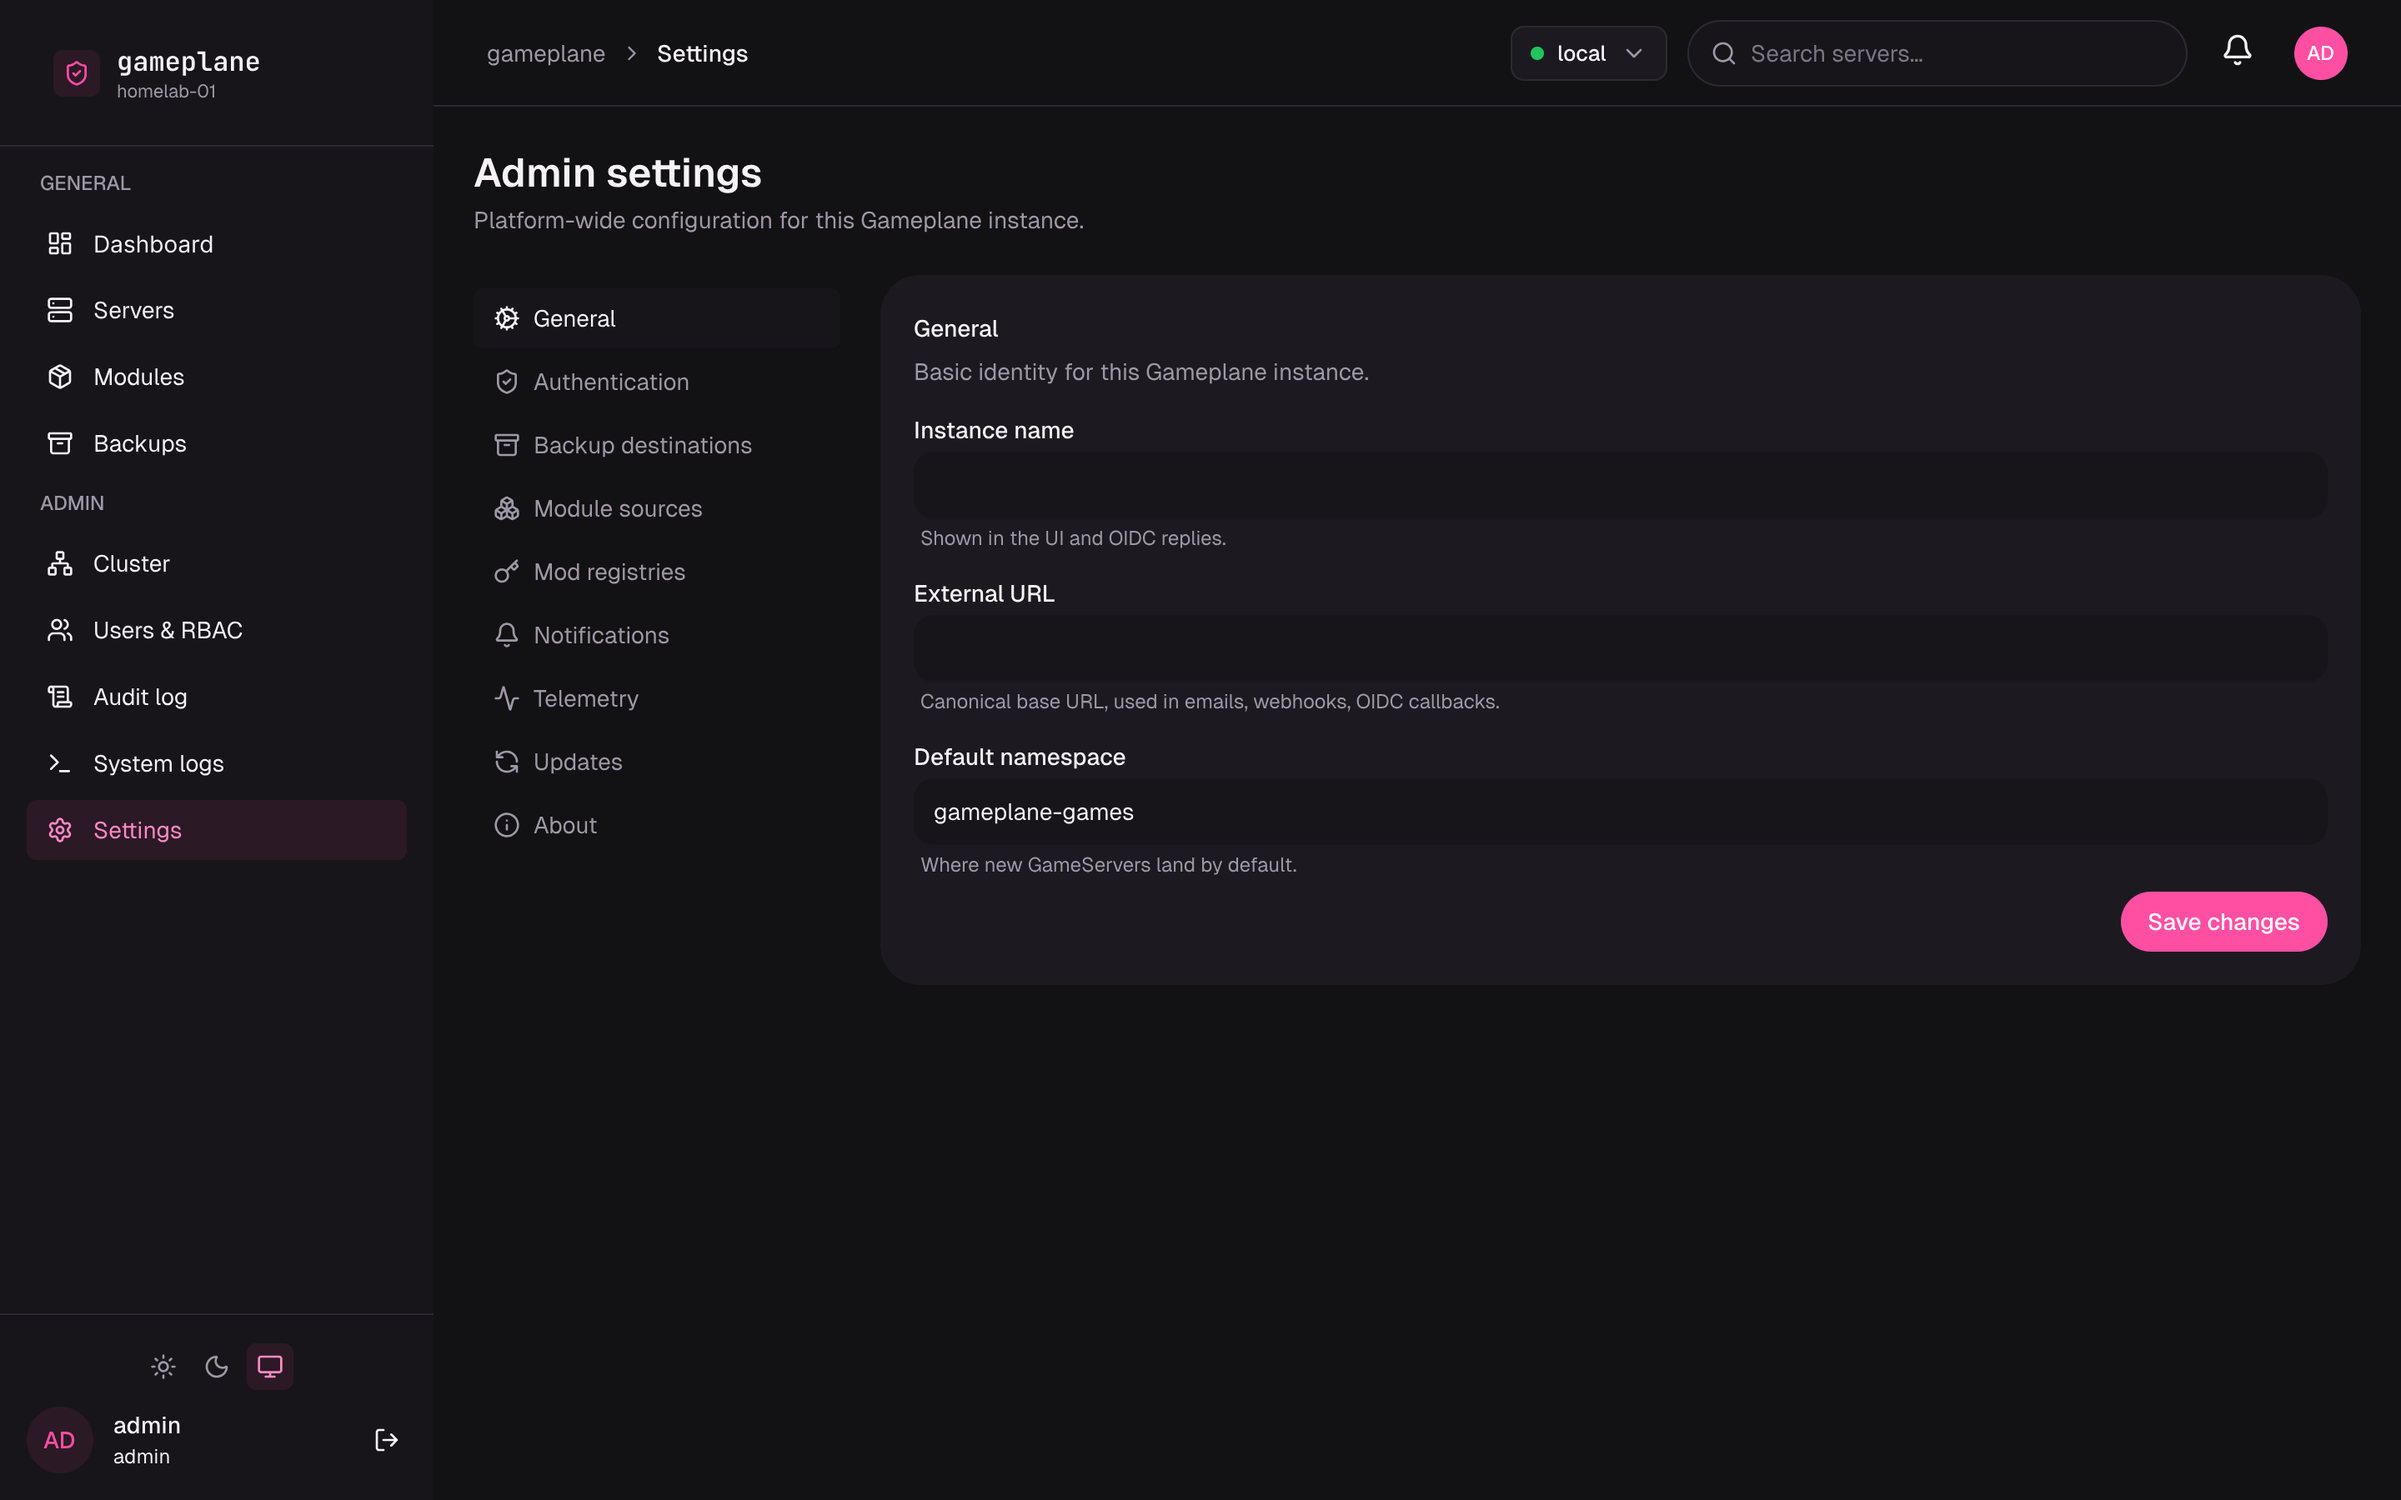
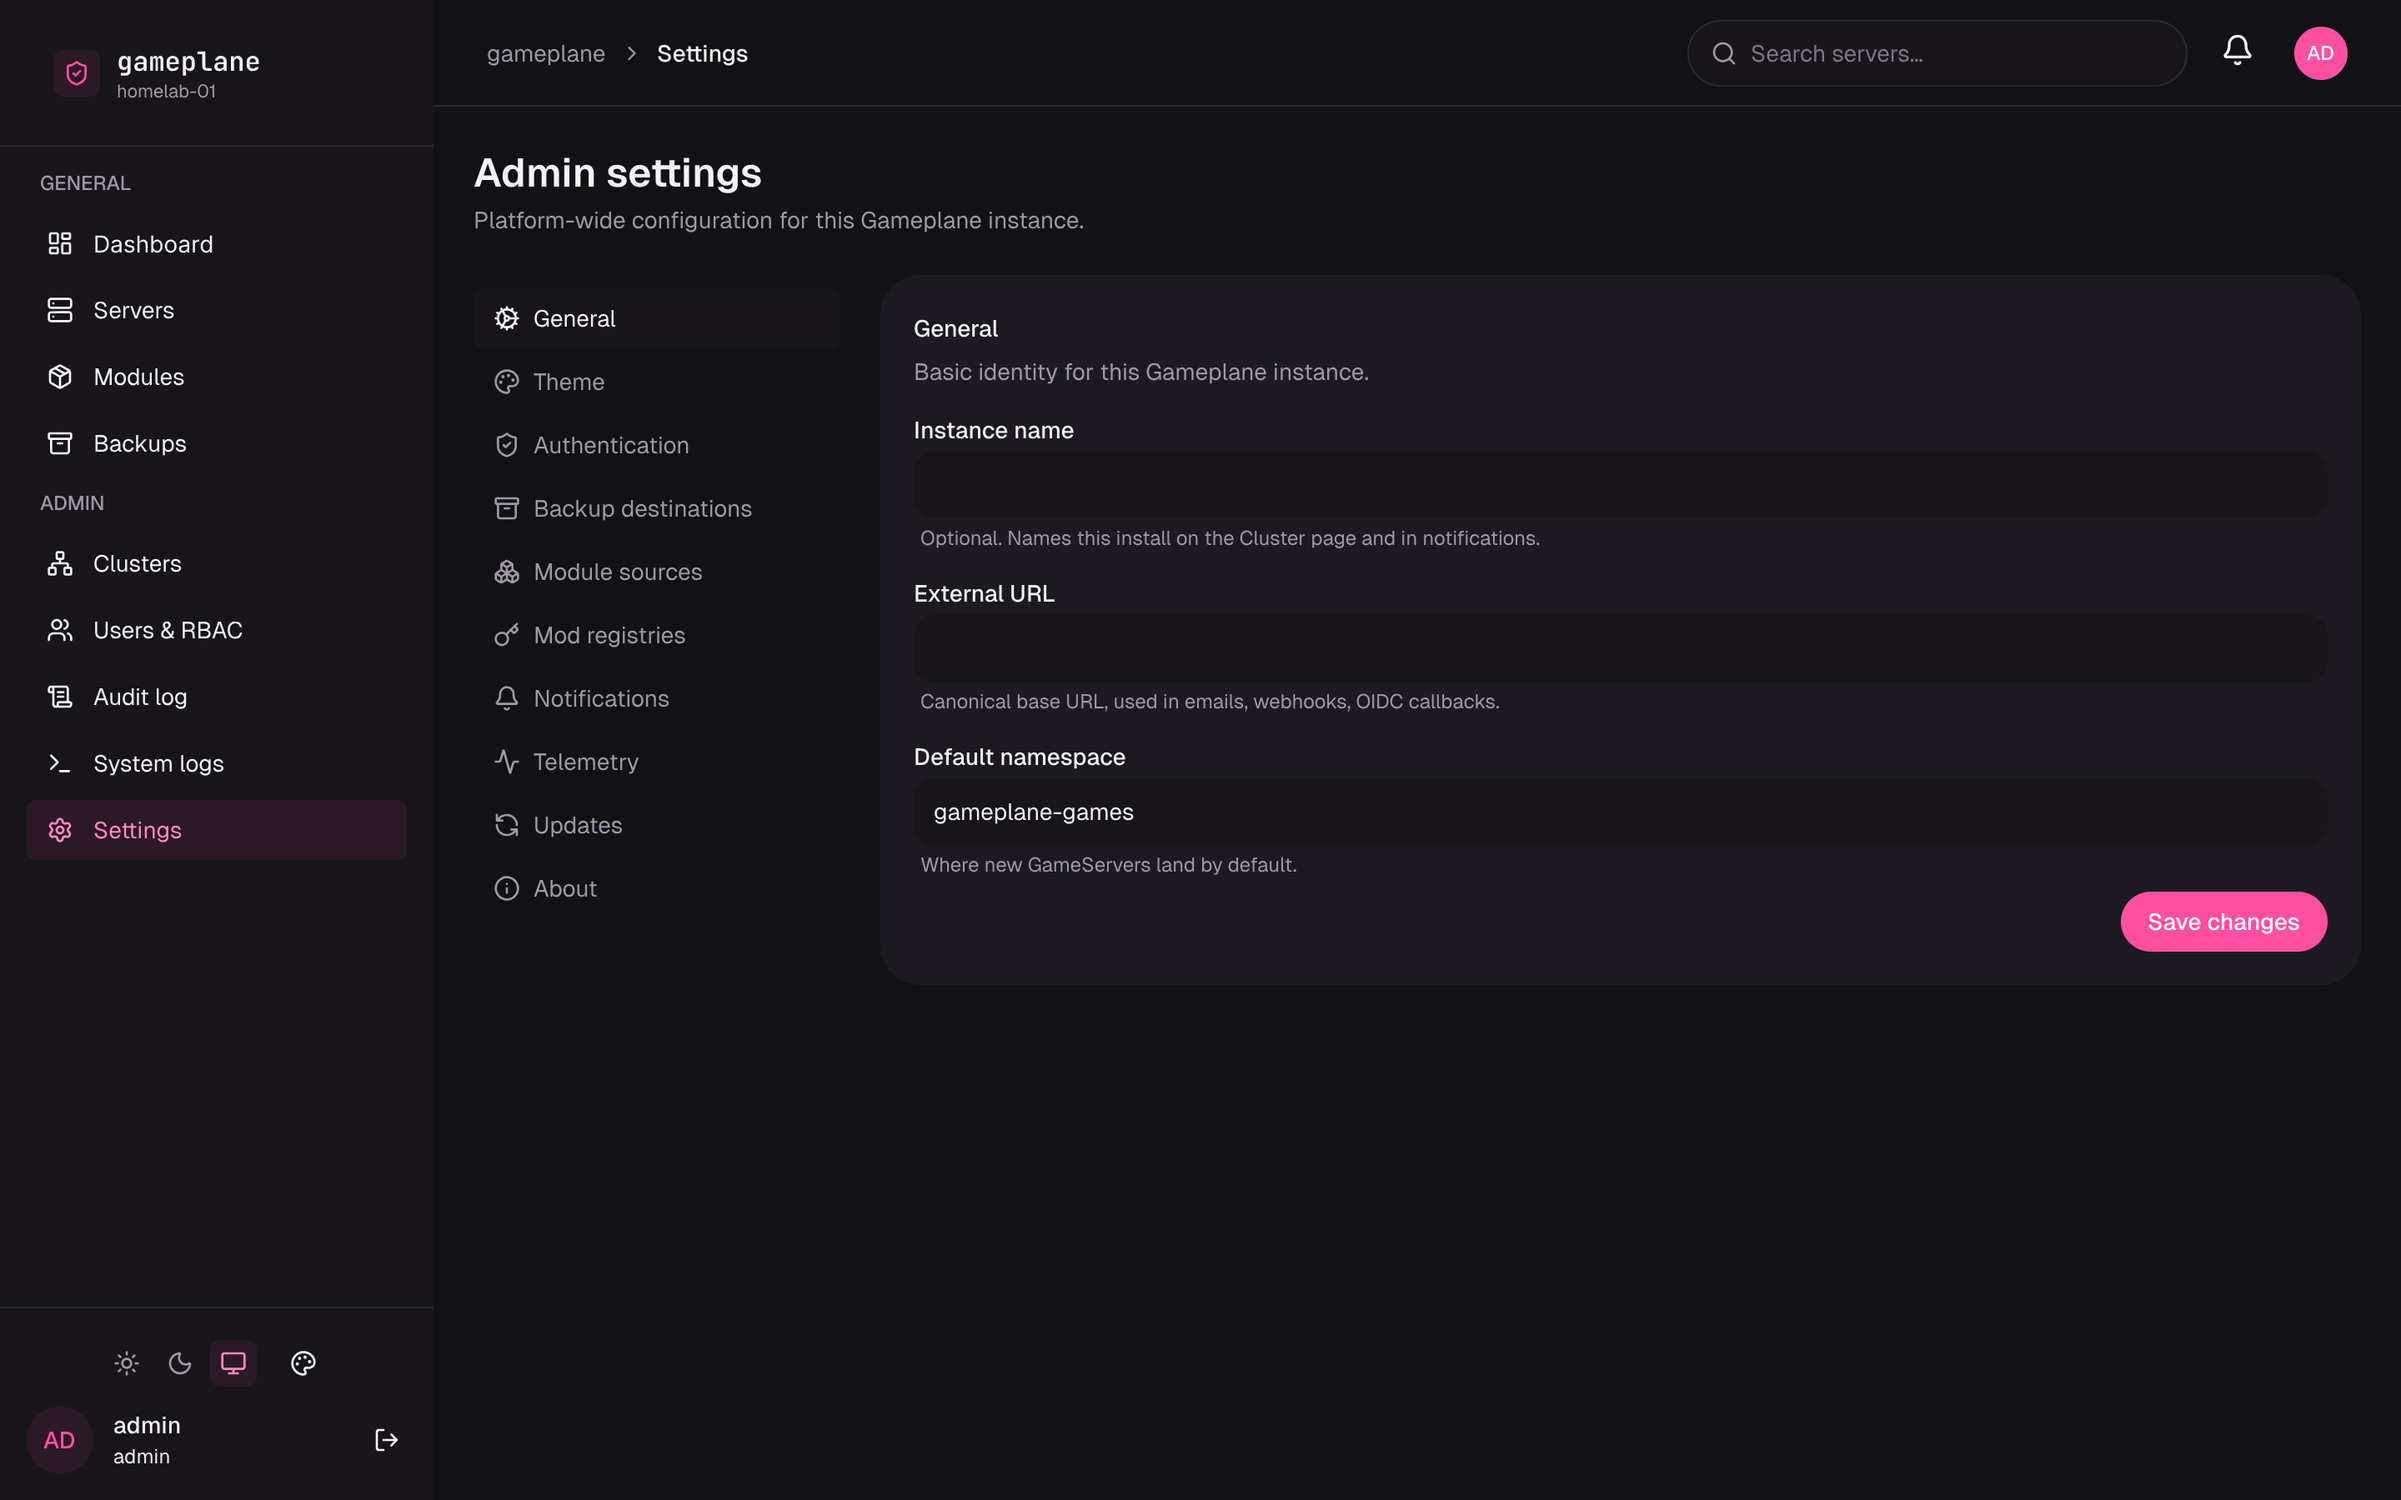
design: live-sweep UX pass for share copy, files, console and settings
Design-first changes for four findings from the 2026-10-04 kubelab live
sweep, ahead of the code:

- Share Link Starting (EcoGD): "starting up" instead of "waking up",
  which was wrong for a normal start.
- Admin Settings (WZdnw): the Instance name hint says the field is
  optional and where the name shows.
- Files (Burtr): folder rows get a hover trash button so folders can be
  deleted; new New File (Invalid name) variant (oMuyw) with an inline
  error line.
- Console (Xn5ns): adds the command bar the code already renders, with a
  placeholder that mentions Up/Down history.
- New File/Folder dialogs (JLaGB, I9W8z): the primary button reads
  Create instead of the inherited "Run snapshot".

Exports refreshed for the touched nodes; MANIFEST documents the pass.

Claude-Session: https://claude.ai/code/session_01NsN6bnAMRM9XQtrTQ6KC7U

diff --git a/design-export/MANIFEST.md b/design-export/MANIFEST.md
@@ -2465,3 +2465,20 @@ The kept copies moved into the freed slots so their rows stay contiguous, and on
 The second Settings set at x ≥ 30440 (`uCA23`, `VctzT`, `iLm38`, `QpEvu`, `XR0f9`) was not touched. Those screens are not duplicates; their content differs from the originals.
 
 After the cleanup there are 217 top-level frames and 0 overlaps.
+
+## Live-sweep UX pass (2026-10-05)
+
+These are the design-first changes for the four UX findings from the 2026-10-04 kubelab live sweep that needed a design before code. One new top-level frame was added, so the document now has 218 top-level frames. It does not overlap any other frame.
+
+| Object | Name | Change |
+| --- | --- | --- |
+| `EcoGD` | Screen/Share Link — Starting | The body copy says "The server is starting up…" instead of "…waking up…". The old copy was wrong for a normal start that no visitor triggered. |
+| `WZdnw` | Screen/Admin Settings | The Instance name hint (`E8BwC`) now reads "Optional. Names this install on the Cluster page and in notifications." The field is optional, and the API never used it in OIDC replies. |
+| `Burtr` | Screen/Server Detail — Files | Row `WdtR2` ("logs") is shown in its hover state. A small ghost `trash-2` button (`ccokq`, in `kHLhx`) replaces its Size cell, so folders can be deleted. Clicking a folder row still opens the folder. |
+| `oMuyw` | Gameplane/Dialog/New File (Invalid name) | **New**, an instance of `JLaGB` placed to its right. The input shows `../escape.txt` with a danger stroke, an 11px danger error line under it, and the dimmed Create button. |
+| `JLaGB`, `I9W8z` | Gameplane/Dialog/New File, New Folder | The primary button reads "Create". Before, it inherited "Run snapshot" from the base modal `x3beP`. |
+| `Xn5ns` | Screen/Server Detail — Console | Adds the command bar (`bdXV9`) that the code already renders, under the terminal. It has a full-width input with the placeholder "Type a command… (↑/↓ recalls history)" and a small primary Send button with no icon. |
+
+- **JSON:** made with `Print(JSON.stringify(Get(id, {depth: 30, includePathGeometry: true})))` and re-serialized with `jq .`. Zero `"..."` elisions, and `jq empty` passes.
+- **Screenshots:** made with `Export(ids, "png", …)` at 2× scale.
+- **Not changed, for a follow-up:** `Jpl8j` (Clone Server) and `NVN2r` (Transfer Ownership) still carry the "Run snapshot" label in their exports.
